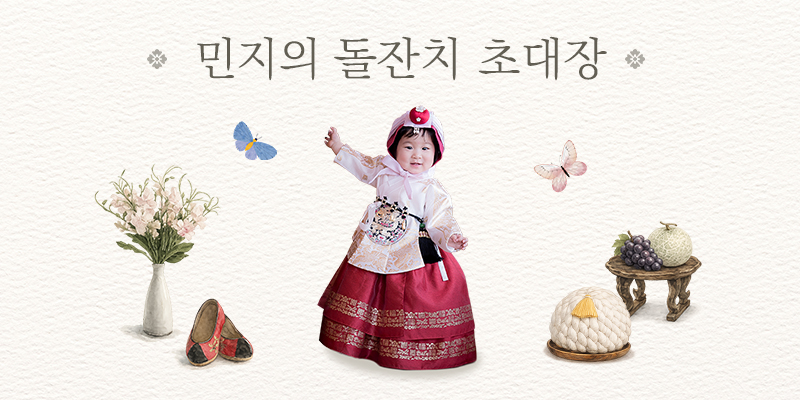
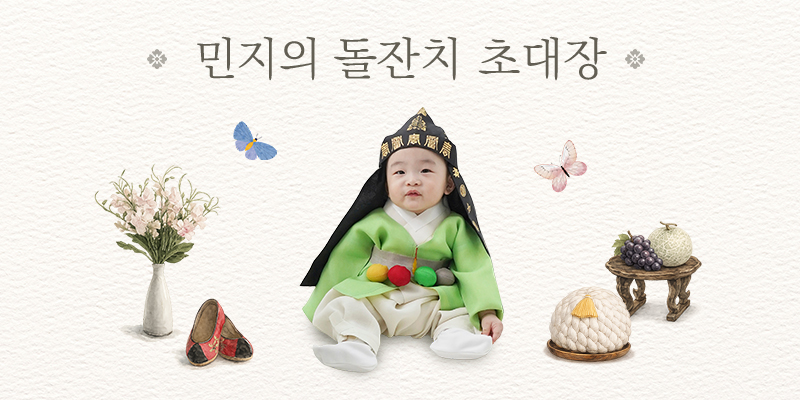
。

Changed region(s): [[0.375, 0.27, 0.6562, 0.96]]

diff --git a/customers/design01_premium_260729-001/index.html b/customers/design01_premium_260729-001/index.html
@@ -8,10 +8,10 @@
     
   <meta property="og:title" content="도진이의 첫돌">
   <meta property="og:description" content="소중한 분들을 초대합니다.">
-  <meta property="og:image" content="https://dol-invitation-rho.vercel.app/customers/design01_premium_260729-001/img/preview.jpg?v=4">
+  <meta property="og:image" content="https://dol-invitation-rho.vercel.app/customers/design01_premium_260729-001/img/preview.jpg?v=3">
   <meta property="og:image:width" content="600">
   <meta property="og:image:height" content="400">
-  <meta property="og:url" content="https://dol-invitation-rho.vercel.app/customers/design01_premium_260729-001/?v=4">
+  <meta property="og:url" content="https://dol-invitation-rho.vercel.app/customers/design01_premium_260729-001/?v=3">
   <meta property="og:type" content="website">
 
   <link
